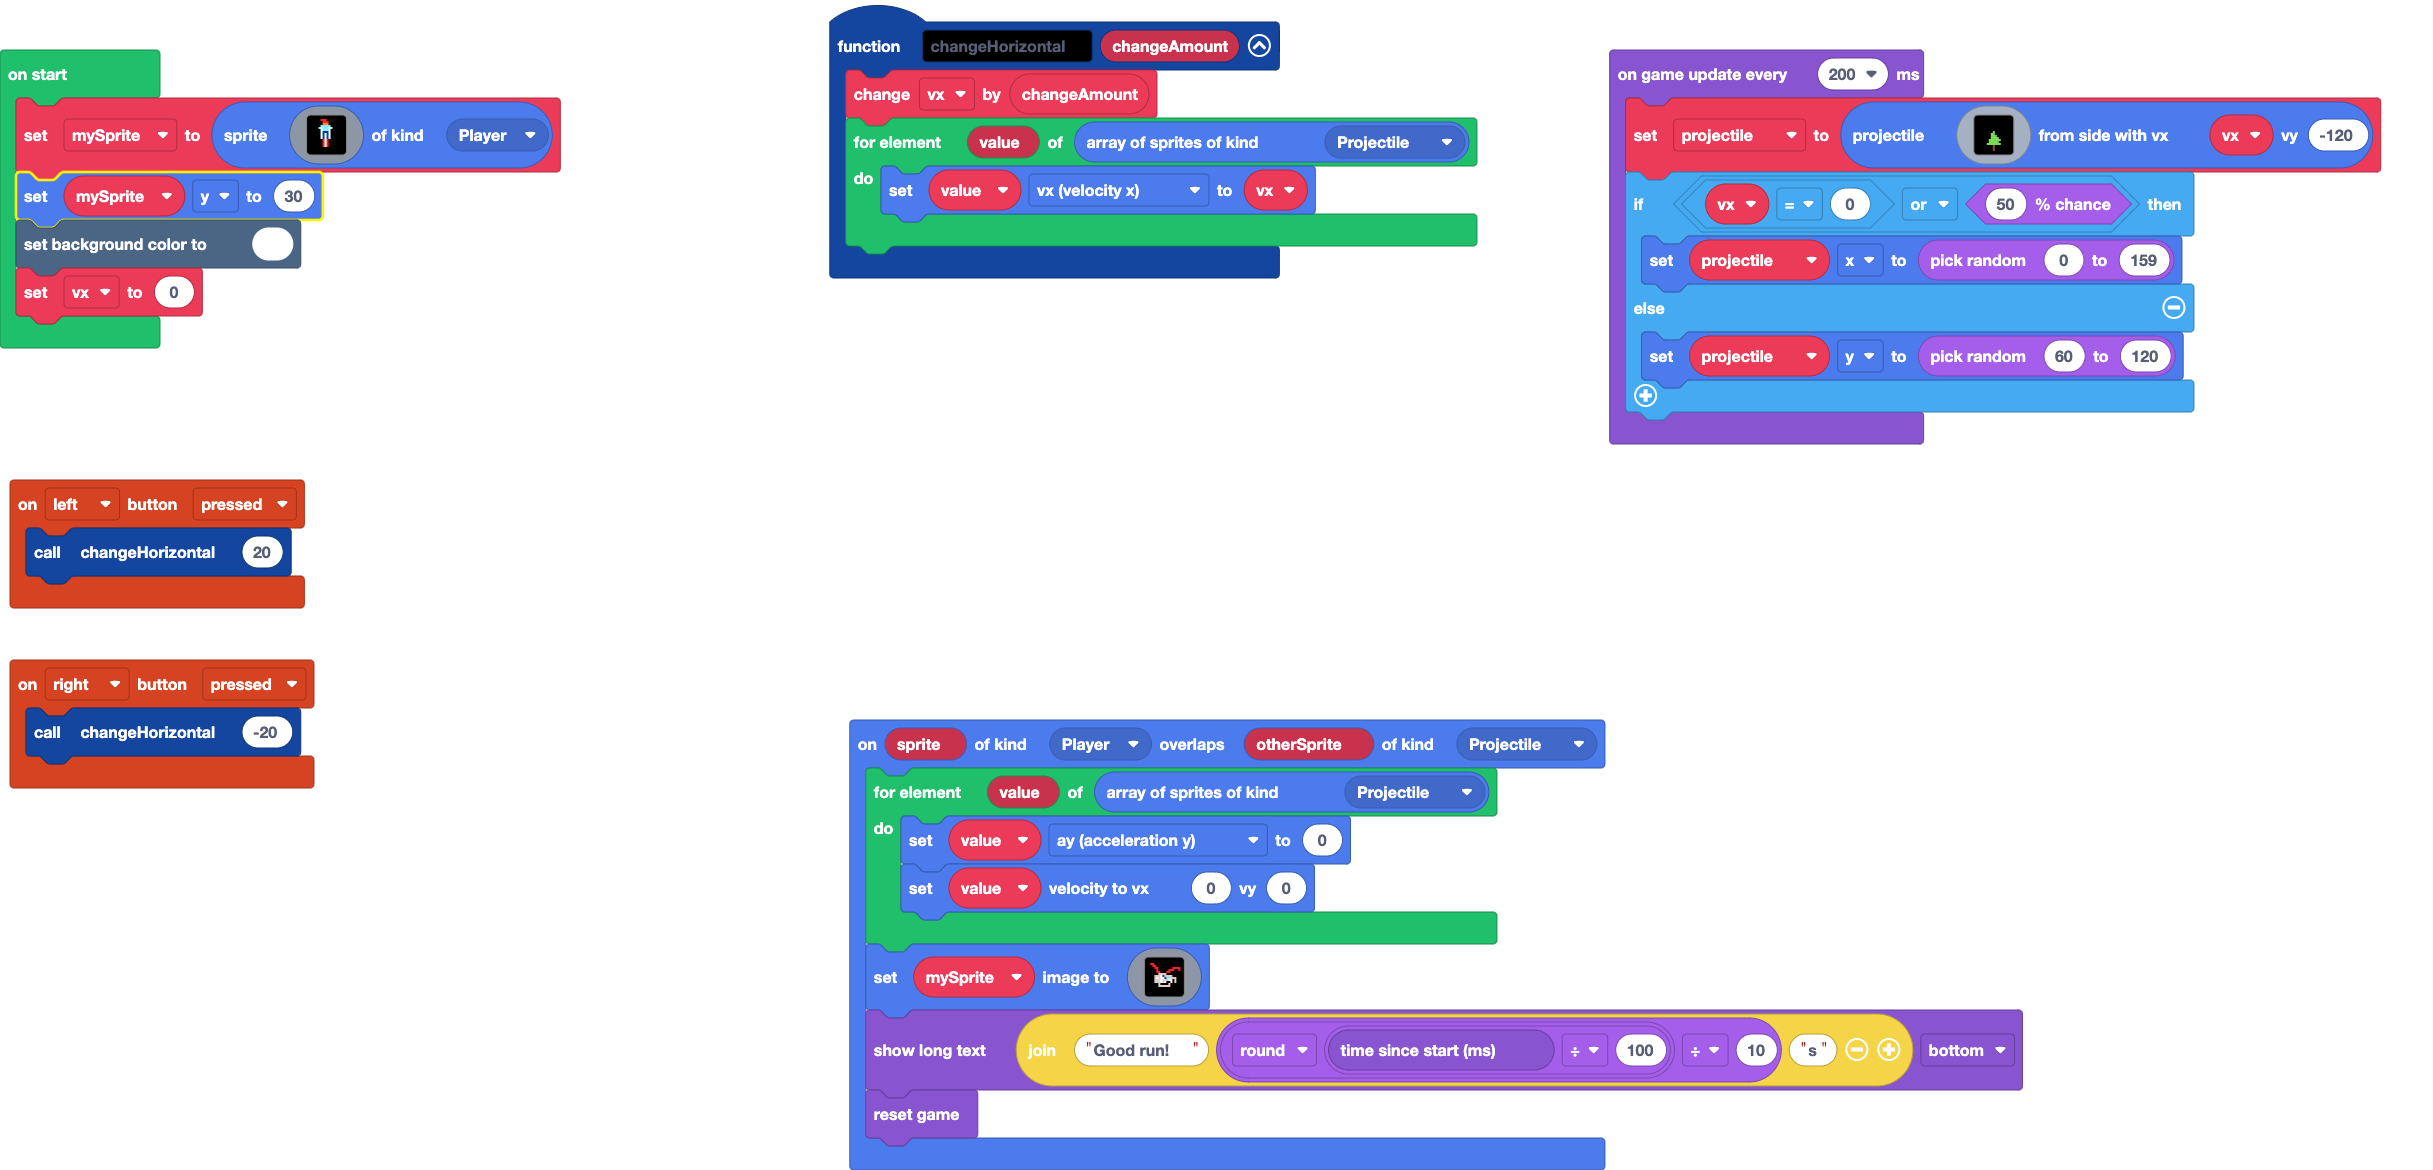
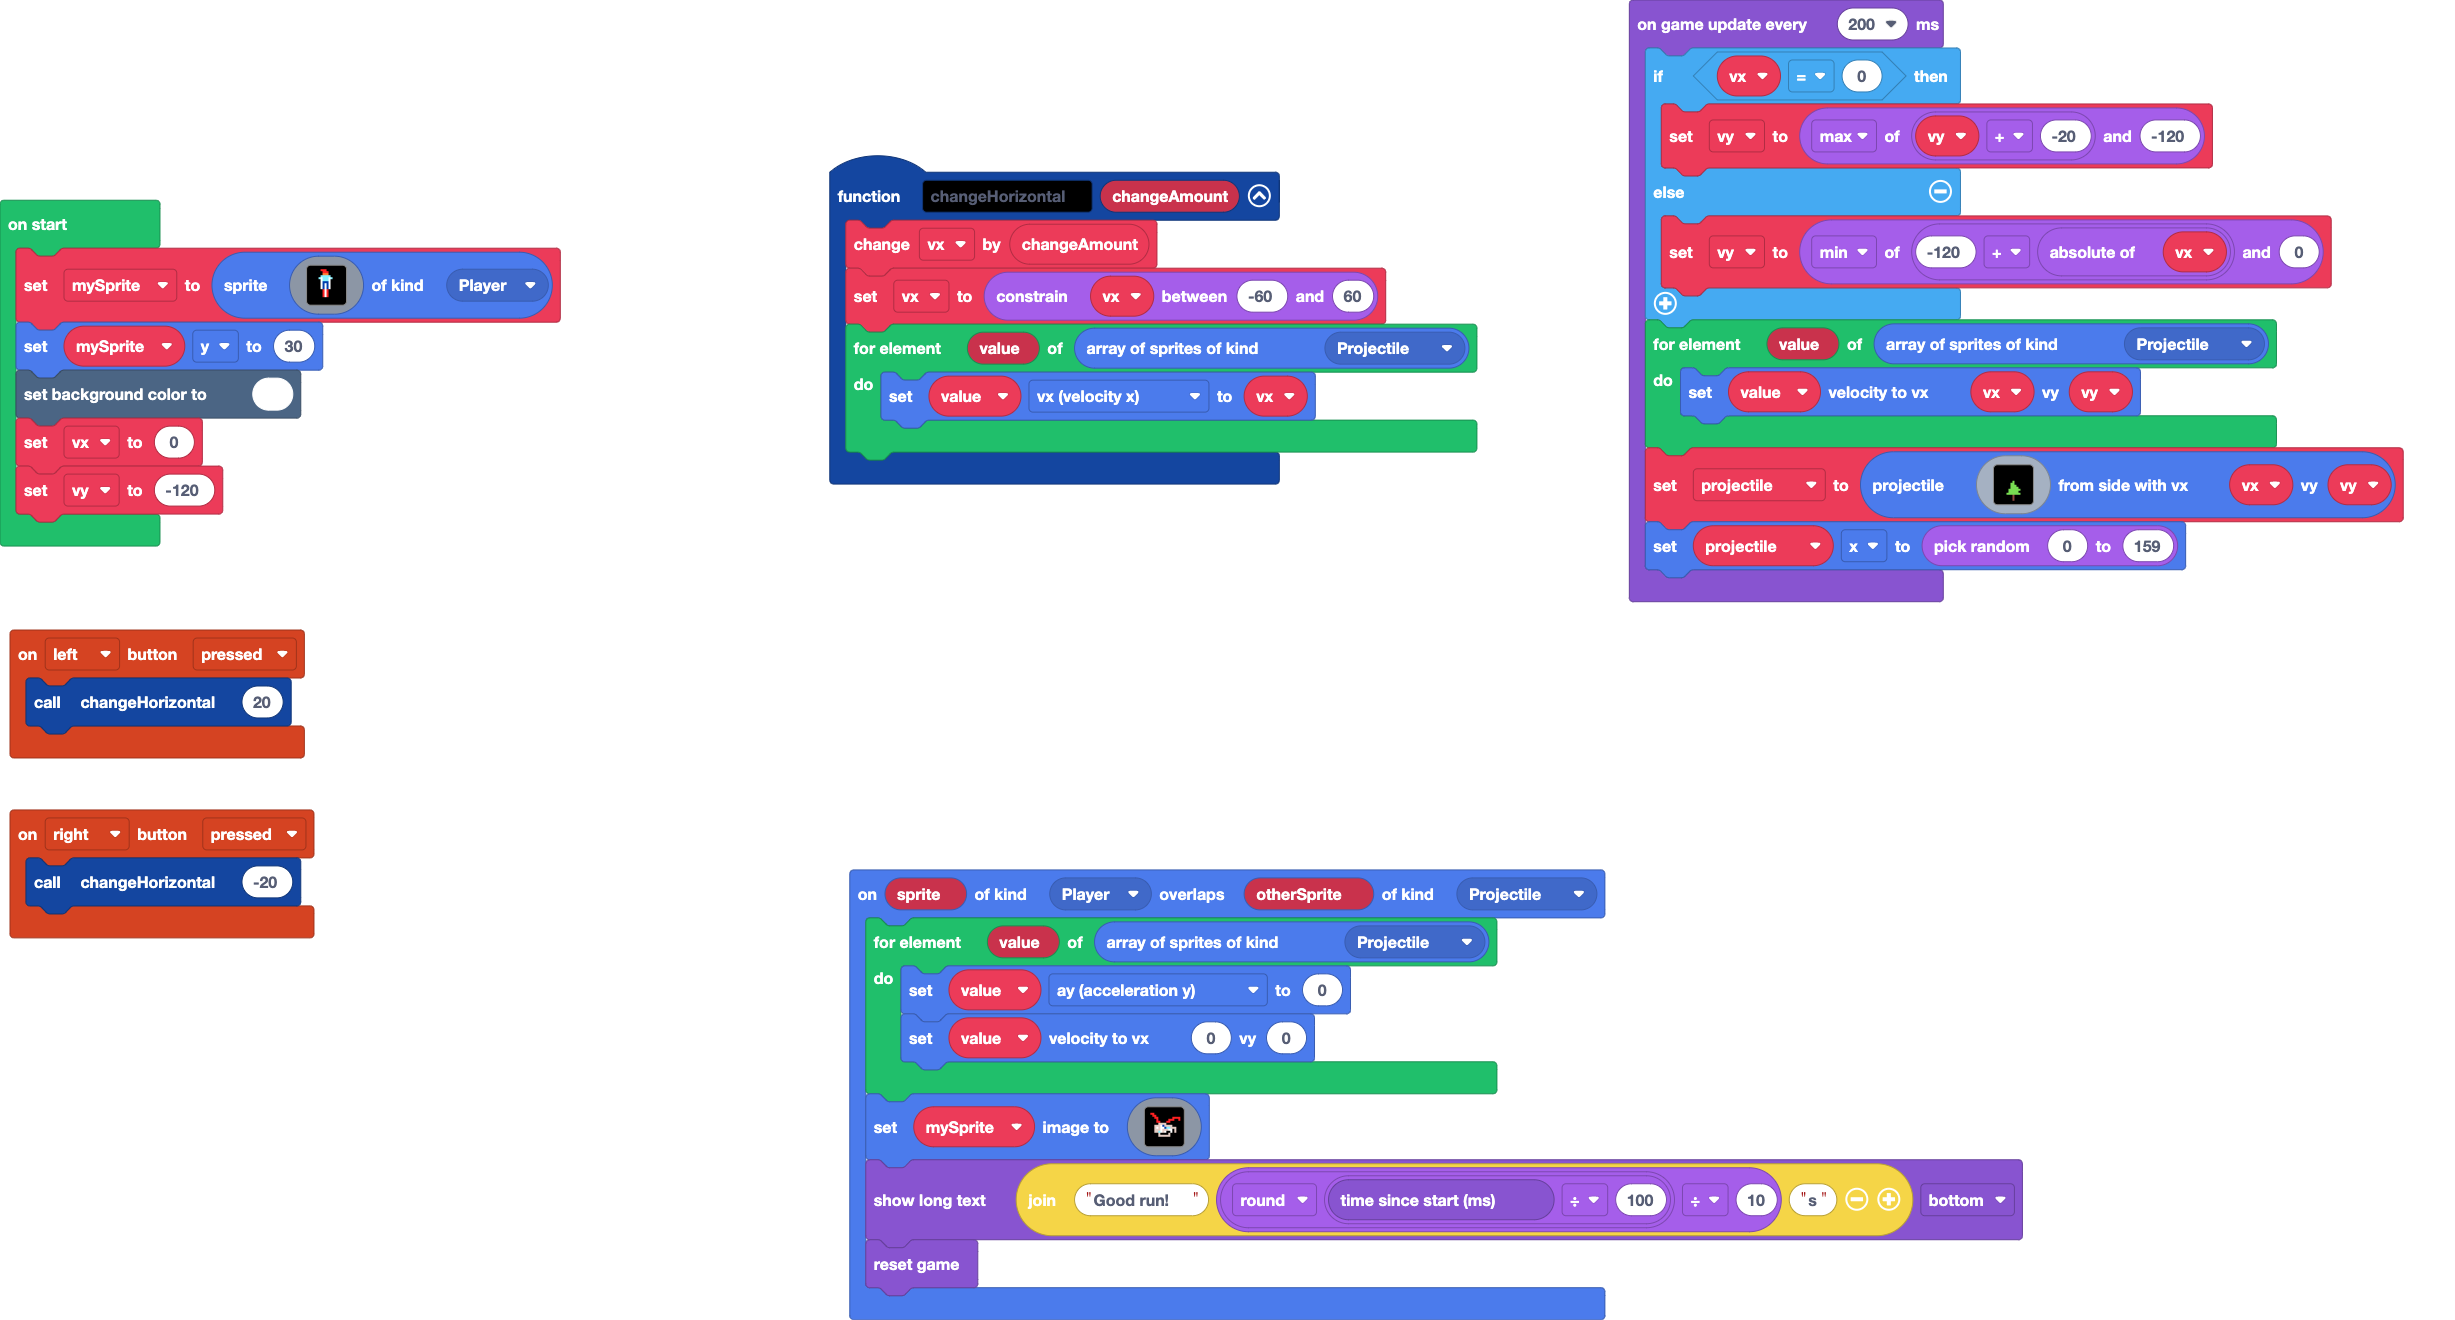
wip some tweaks to control mechanic

diff --git a/main.ts b/main.ts
@@ -3,6 +3,7 @@ controller.left.onEvent(ControllerButtonEvent.Pressed, function () {
 })
 function changeHorizontal (changeAmount: number) {
     vx += changeAmount
+    vx = Math.constrain(vx, -60, 60)
     for (let value of sprites.allOfKind(SpriteKind.Projectile)) {
         value.vx = vx
     }
@@ -60,7 +61,16 @@ mySprite = sprites.create(img`
 mySprite.y = 30
 scene.setBackgroundColor(1)
 vx = 0
+let vy = -120
 game.onUpdateInterval(200, function () {
+    if (vx == 0) {
+        vy = Math.max(vy + -20, -120)
+    } else {
+        vy = Math.min(-120 + Math.abs(vx), 0)
+    }
+    for (let value of sprites.allOfKind(SpriteKind.Projectile)) {
+        value.setVelocity(vx, vy)
+    }
     projectile = sprites.createProjectileFromSide(img`
 . . . . . . . 
 . . . . . . . 
@@ -78,10 +88,6 @@ game.onUpdateInterval(200, function () {
 . . . e . . . 
 . . . e . . . 
 . . . e . . . 
-`, vx, -120)
-    if (vx == 0 || Math.percentChance(50)) {
-        projectile.x = randint(0, 159)
-    } else {
-        projectile.y = randint(60, 120)
-    }
+`, vx, vy)
+    projectile.x = randint(0, 159)
 })
